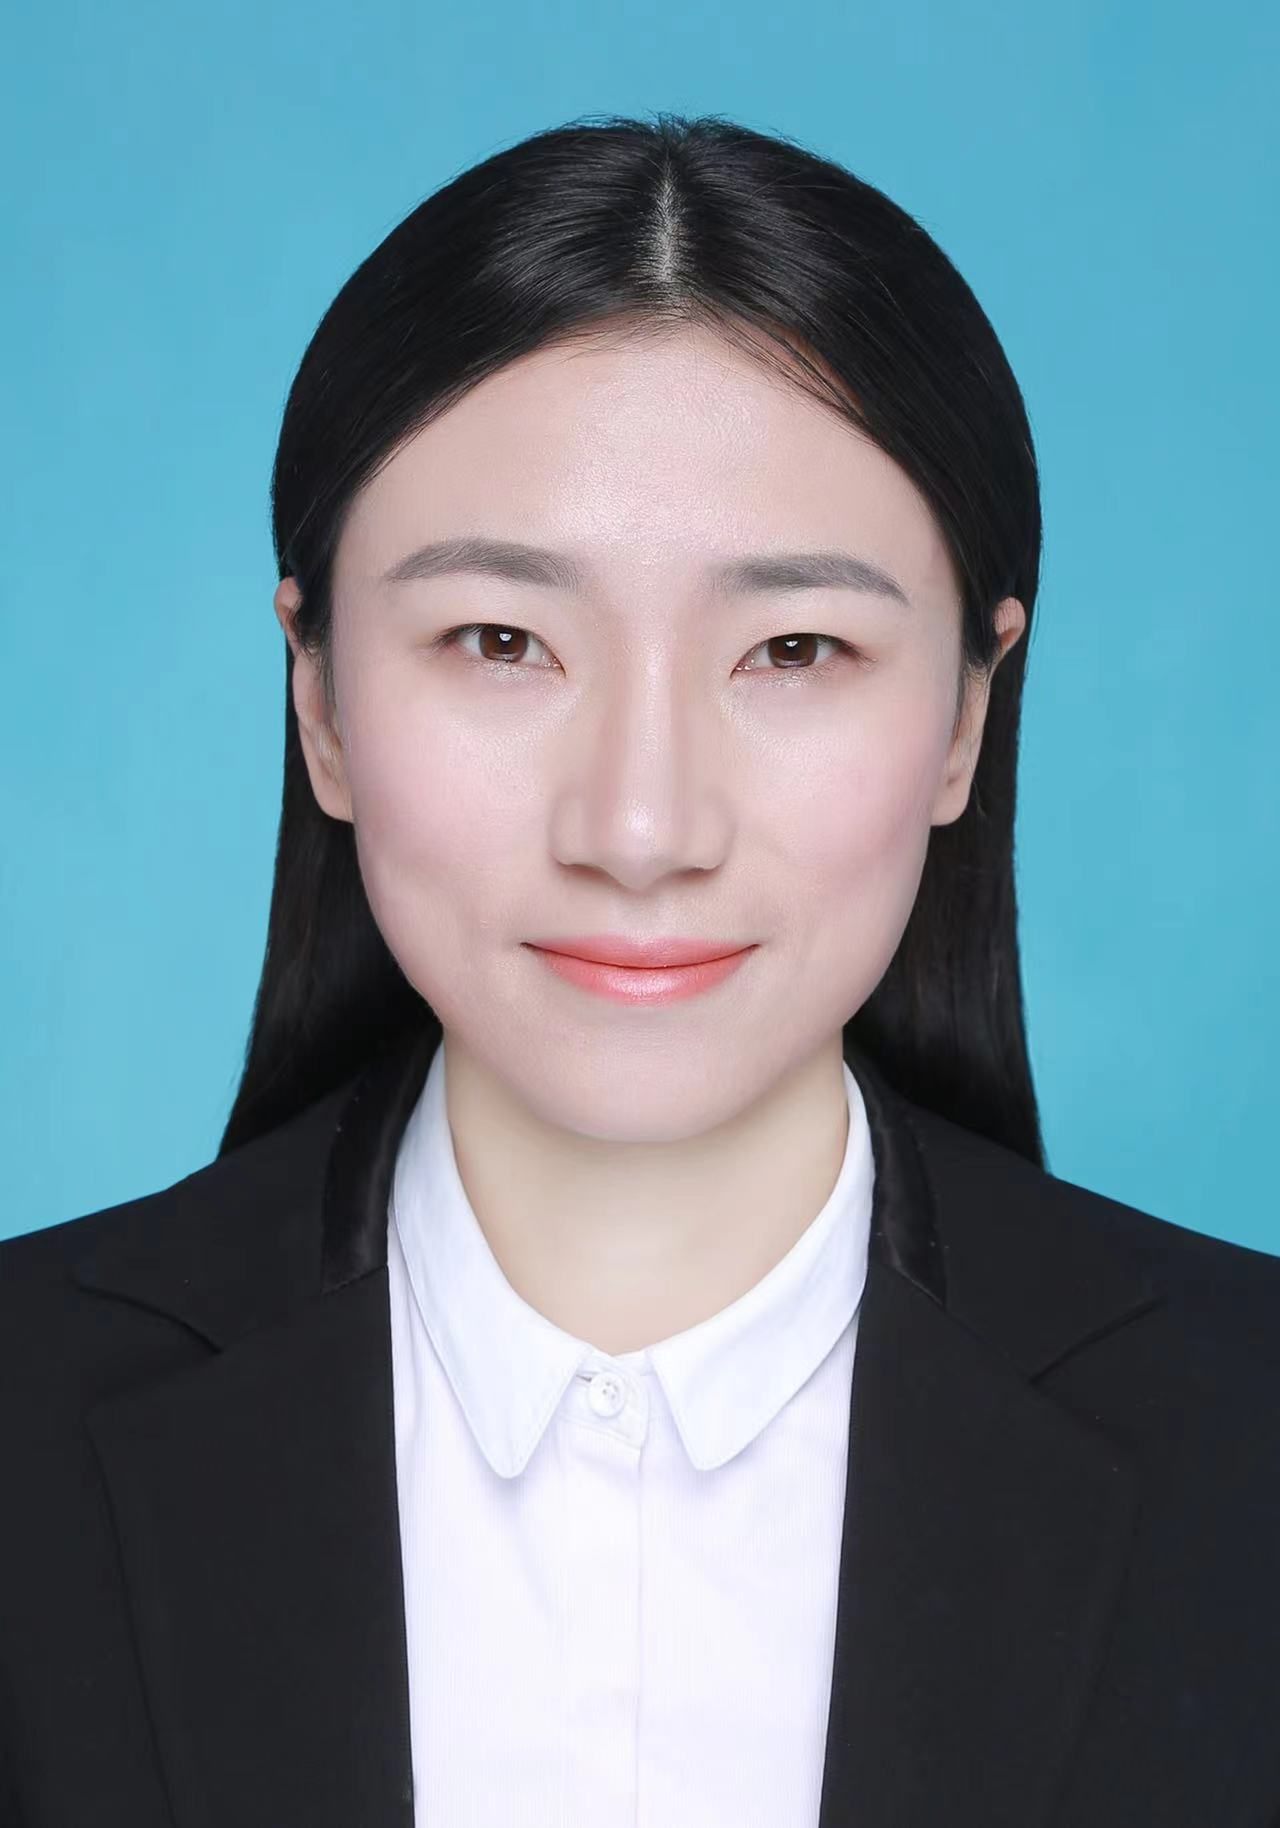
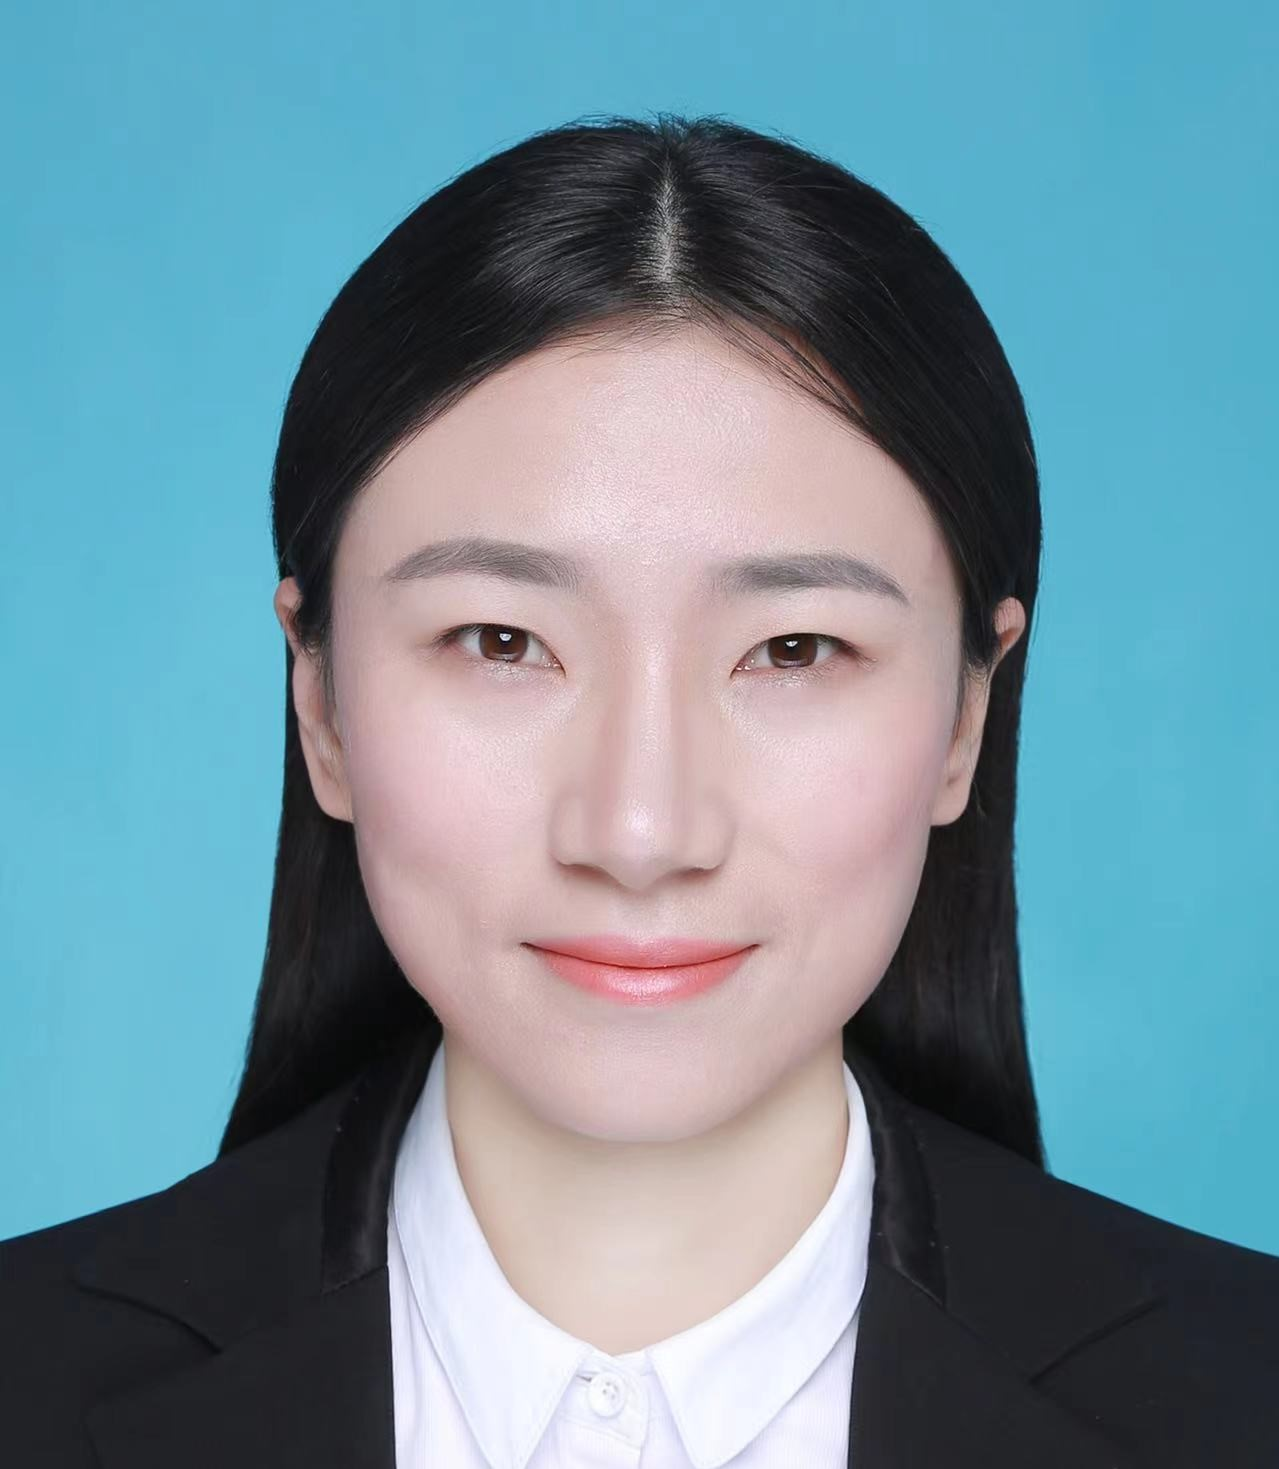
data:2303

diff --git a/post/writing-technical-content/index.html b/post/writing-technical-content/index.html
@@ -923,7 +923,7 @@ data.head()
 
 
 
-<div id="chart-624857931" class="chart"></div>
+<div id="chart-381569742" class="chart"></div>
 <script>
   (function() {
     let a = setInterval( function() {
@@ -933,7 +933,7 @@ data.head()
       clearInterval( a );
 
       Plotly.d3.json("./line-chart.json", function(chart) {
-        Plotly.plot('chart-624857931', chart.data, chart.layout, {responsive: true});
+        Plotly.plot('chart-381569742', chart.data, chart.layout, {responsive: true});
       });
     }, 500 );
   })();
@@ -1356,7 +1356,7 @@ Crash --> [*]
   <div class="media author-card content-widget-hr">
     
       
-      <a href="https://Haiyan-Jiang.github.io/"><img class="avatar mr-3 avatar-circle" src="/authors/admin/avatar_hu05313266572ec5f4f73801acaccd8e2b_120939_270x270_fill_q75_lanczos_center.jpg" alt="Haiyan Jiang | 江海燕"></a>
+      <a href="https://Haiyan-Jiang.github.io/"><img class="avatar mr-3 avatar-circle" src="/authors/admin/avatar_hude892cec687793dd9acc4e848fbe3020_171011_270x270_fill_q75_lanczos_center.jpg" alt="Haiyan Jiang | 江海燕"></a>
     
 
     <div class="media-body">

diff --git a/post/getting-started/index.html b/post/getting-started/index.html
@@ -1063,7 +1063,7 @@
   <div class="media author-card content-widget-hr">
     
       
-      <a href="https://Haiyan-Jiang.github.io/"><img class="avatar mr-3 avatar-circle" src="/authors/admin/avatar_hu05313266572ec5f4f73801acaccd8e2b_120939_270x270_fill_q75_lanczos_center.jpg" alt="Haiyan Jiang | 江海燕"></a>
+      <a href="https://Haiyan-Jiang.github.io/"><img class="avatar mr-3 avatar-circle" src="/authors/admin/avatar_hude892cec687793dd9acc4e848fbe3020_171011_270x270_fill_q75_lanczos_center.jpg" alt="Haiyan Jiang | 江海燕"></a>
     
 
     <div class="media-body">

diff --git a/post/jupyter/index.html b/post/jupyter/index.html
@@ -1031,7 +1031,7 @@
   <div class="media author-card content-widget-hr">
     
       
-      <a href="https://Haiyan-Jiang.github.io/"><img class="avatar mr-3 avatar-circle" src="/authors/admin/avatar_hu05313266572ec5f4f73801acaccd8e2b_120939_270x270_fill_q75_lanczos_center.jpg" alt="Haiyan Jiang | 江海燕"></a>
+      <a href="https://Haiyan-Jiang.github.io/"><img class="avatar mr-3 avatar-circle" src="/authors/admin/avatar_hude892cec687793dd9acc4e848fbe3020_171011_270x270_fill_q75_lanczos_center.jpg" alt="Haiyan Jiang | 江海燕"></a>
     
 
     <div class="media-body">

diff --git a/talk/example-talk/index.html b/talk/example-talk/index.html
@@ -1080,7 +1080,7 @@
   <div class="media author-card content-widget-hr">
     
       
-      <a href="https://Haiyan-Jiang.github.io/"><img class="avatar mr-3 avatar-circle" src="/authors/admin/avatar_hu05313266572ec5f4f73801acaccd8e2b_120939_270x270_fill_q75_lanczos_center.jpg" alt="Haiyan Jiang | 江海燕"></a>
+      <a href="https://Haiyan-Jiang.github.io/"><img class="avatar mr-3 avatar-circle" src="/authors/admin/avatar_hude892cec687793dd9acc4e848fbe3020_171011_270x270_fill_q75_lanczos_center.jpg" alt="Haiyan Jiang | 江海燕"></a>
     
 
     <div class="media-body">

diff --git a/project/example/index.html b/project/example/index.html
@@ -965,7 +965,7 @@
   <div class="media author-card content-widget-hr">
     
       
-      <a href="https://Haiyan-Jiang.github.io/"><img class="avatar mr-3 avatar-circle" src="/authors/admin/avatar_hu05313266572ec5f4f73801acaccd8e2b_120939_270x270_fill_q75_lanczos_center.jpg" alt="Haiyan Jiang | 江海燕"></a>
+      <a href="https://Haiyan-Jiang.github.io/"><img class="avatar mr-3 avatar-circle" src="/authors/admin/avatar_hude892cec687793dd9acc4e848fbe3020_171011_270x270_fill_q75_lanczos_center.jpg" alt="Haiyan Jiang | 江海燕"></a>
     
 
     <div class="media-body">

diff --git a/project/external-project/index.html b/project/external-project/index.html
@@ -965,7 +965,7 @@
   <div class="media author-card content-widget-hr">
     
       
-      <a href="https://Haiyan-Jiang.github.io/"><img class="avatar mr-3 avatar-circle" src="/authors/admin/avatar_hu05313266572ec5f4f73801acaccd8e2b_120939_270x270_fill_q75_lanczos_center.jpg" alt="Haiyan Jiang | 江海燕"></a>
+      <a href="https://Haiyan-Jiang.github.io/"><img class="avatar mr-3 avatar-circle" src="/authors/admin/avatar_hude892cec687793dd9acc4e848fbe3020_171011_270x270_fill_q75_lanczos_center.jpg" alt="Haiyan Jiang | 江海燕"></a>
     
 
     <div class="media-body">

diff --git a/index.html b/index.html
@@ -805,7 +805,7 @@
       
       <img class="avatar avatar-circle"
            width="270" height="270"
-           src="/authors/admin/avatar_hu05313266572ec5f4f73801acaccd8e2b_120939_270x270_fill_q75_lanczos_center.jpg" alt="Haiyan Jiang | 江海燕">
+           src="/authors/admin/avatar_hude892cec687793dd9acc4e848fbe3020_171011_270x270_fill_q75_lanczos_center.jpg" alt="Haiyan Jiang | 江海燕">
       
 
       <div class="portrait-title">
